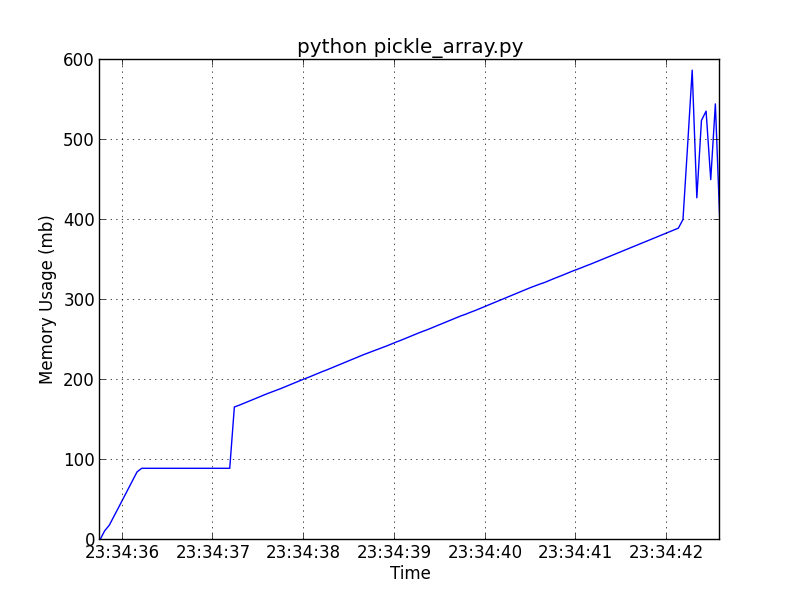
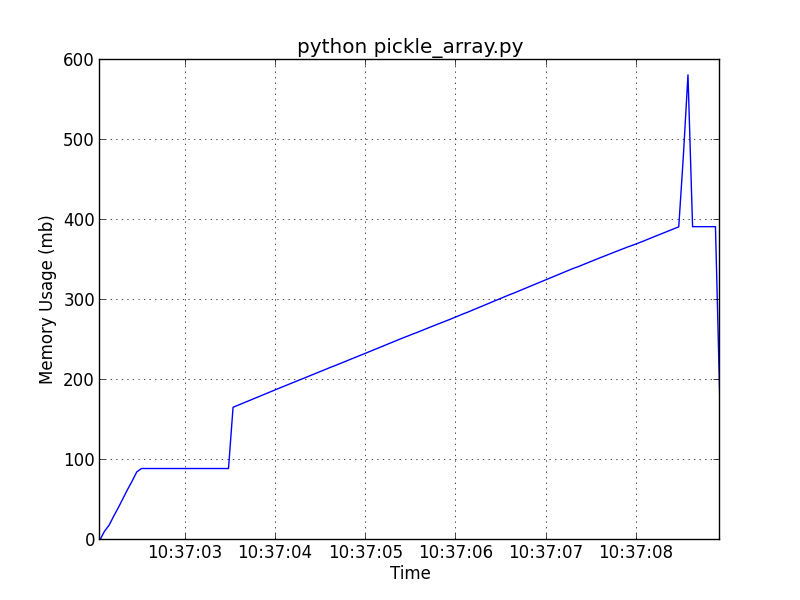
pickle example updated

diff --git a/README.md b/README.md
@@ -30,7 +30,7 @@ import time
 
 x = np.random.randn(1000,10000)
 time.sleep(1)
-p = pickle.dumps(x)
+pickle.dump(x,open("x.pk","w"))
 ```
 
 To plot memory usage run:
